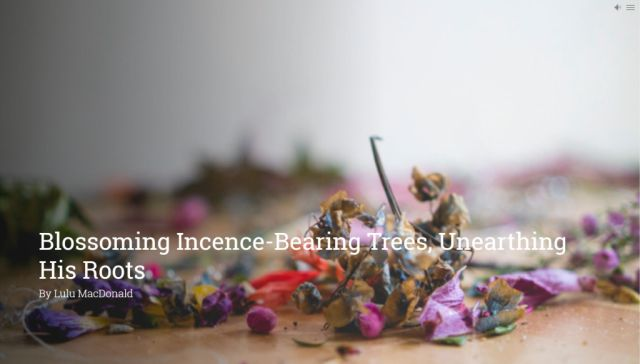
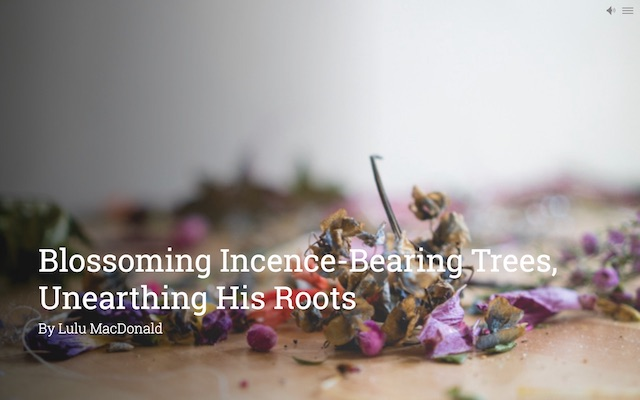
sharper 640 pics

diff --git a/index.html b/index.html
@@ -23,42 +23,47 @@
 	<!-- End Google Tag Manager (noscript) -->
 
 	<main role="main">
-		<div>
-			<p>Visual storytelling is different from writing in text only, and we believe it requires a purpose-built tool to work with the richness and power of multimedia.
-			</p>
-			<p>
-			Mural is a tool for visual storytelling. It’s a program that helps you sequence your visual story, and then generates everything needed for that story to be displayed on most modern web browsers and served from any web server. 
-			</p>
-			<p>
-			When a story is made with Mural, its visual elements are displayed at full screen by default, letting the strength and richness of your work shine through. Images can be combined with sound, videos combined with text, and numerous other combinations are possible. Rearrange your sequences with a simple drag and drop.
-			</p>
-		</div>
+		<section>
+			<h1>Visual Storytelling with Mural</h1>
+			<div>
+				<p>Visual storytelling is different from writing in text only, and we believe it requires a purpose-built tool to work with the richness and power of multimedia.
+				</p>
+				<p>
+				Mural is a tool for visual storytelling. It’s a program that helps you sequence your visual story, and then generates everything needed for that story to be displayed on most modern web browsers and served from any web server. 
+				</p>
+				<p>
+				When a story is made with Mural, its visual elements are displayed at full screen by default, letting the strength and richness of your work shine through. Images can be combined with sound, videos combined with text, and numerous other combinations are possible. Rearrange your sequences with a simple drag and drop.
+				</p>
+			</div>
 
-		<h2>What you see is what you get</h2>
-		<div>See the way your story will look, test out all of the elements, and make changes if necessary before it’s uploaded to the web.</div>
+			<dl>
+				<dt>What you see is what you get</dt>
+				<dd>See the way your story will look, test out all of the elements, and make changes if necessary before it’s uploaded to the web.</dd>
 
+				<dt>Advertising and Marketing</dt>
+				<dd>
+				Present your brand with greater impact, and bring your web and video assets closer together.
+				</dd>
 
-		<h2>Advertising and Marketing</h2>
-		<div>
-		Present your brand with greater impact, and bring your web and video assets closer together.
-		</div>
+				<dt>Journalism</dt>
+				<dd>
+				Make better use of the power of visual storytelling. Present complex stories in long form with the strong visuals they deserve. Set your photo and video journalists free.
+				</dd>
 
-		<h2>Journalism</h2>
-		<div>
-		Make better use of the power of visual storytelling. Present complex stories in long form with the strong visuals they deserve. Set your photo and video journalists free.
-		</div>
-
-		<h2>Art</h2>
-		<div>
-		Create compelling documentation for galleries, museums and individual artists. Present work in a more compelling manner.
-		</div>
-		
-		<h2>Storytelling</h2>
-		<div>Mural can be used effectively anywhere where a story needs to be told across media. Present your organization's stories in a visually powerful way quickly, easily and in a cost-effective manner.
-		</div>
+				<dt>Art</dt>
+				<dd>
+				Create compelling documentation for galleries, museums and individual artists. Present work in a more compelling manner.
+				</dd>
+				
+				<dt>Storytelling</dt>
+				<dd>Mural can be used effectively anywhere where a story needs to be told across media. Present your organization's stories in a visually powerful way quickly, easily and in a cost-effective manner.
+				</dd>
+			</dl>
+		</section>
 
 	<section id="example-stories">
 		<!-- BEGIN TEXT ON STORIES -->
+		<h2>Stories Produced by Mural</h2>
 	<ul>
 		<li>
 			<a href="https://stories.getmural.io/isisarts/forage" target="_blank">
@@ -143,8 +148,8 @@
 		<section id="info-downloads">
 			<div>
 				<hgroup>
-			    <h2>Be free</h1>
-			    <h3>Mural is free and open source, and is licensed under the GNU Affero General Public License (AGPL). </h2>
+			    <h2>Be free</h2>
+			    <h3>Mural is free and open source, and is licensed under the GNU Affero General Public License (AGPL). </h3>
 			   </hgroup>
 
 			   <p>Funding for the initial development of Mural was provided in Round 3 of Google's Digital News Initiative Prototype Fund.</p>
